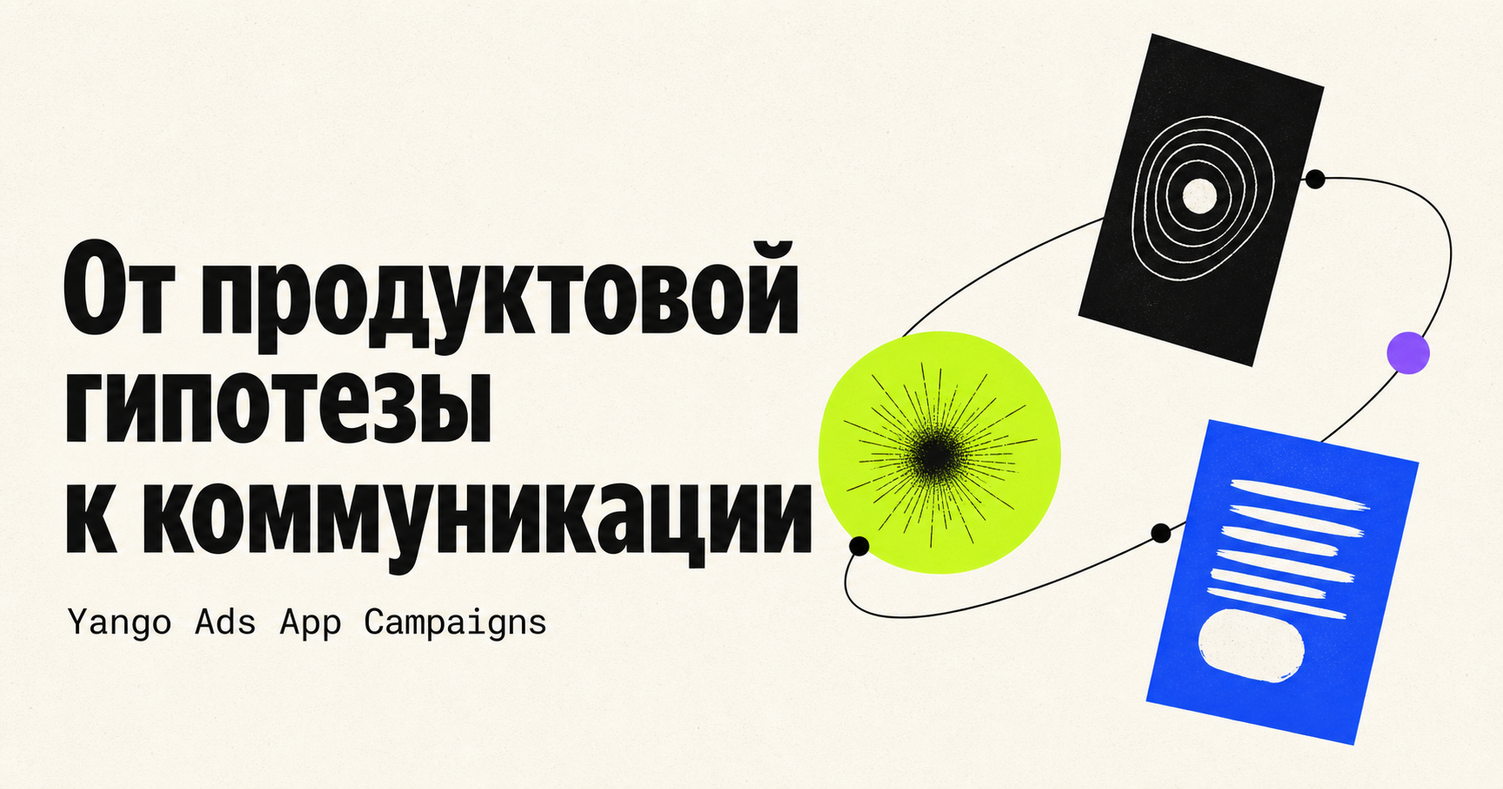
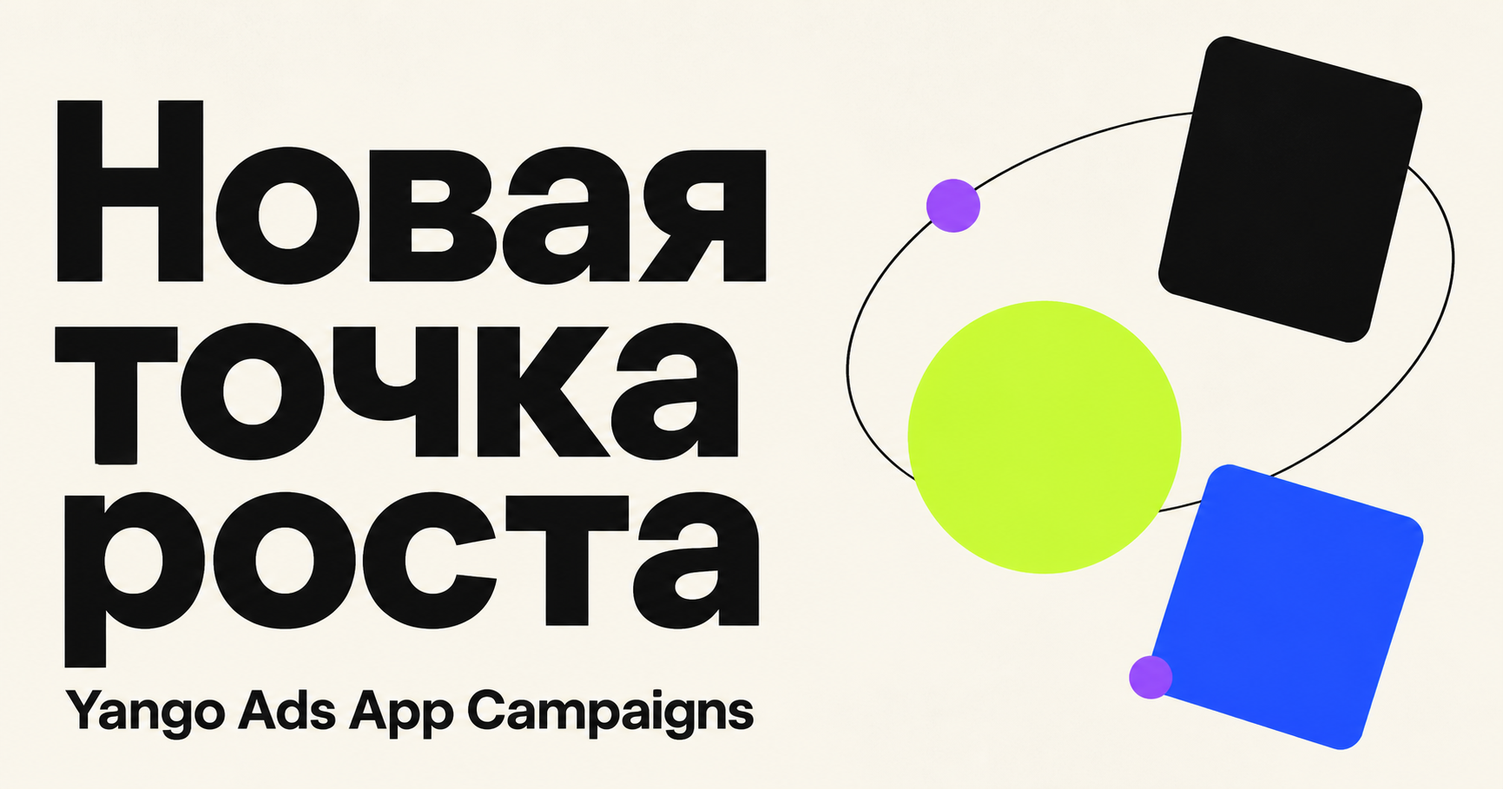
Publish revised Yango Ads case

diff --git a/index.html b/index.html
@@ -3,20 +3,20 @@
   <head>
     <meta charset="utf-8" />
     <meta name="viewport" content="width=device-width, initial-scale=1" />
-    <meta name="description" content="Как продуктовая гипотеза Yango Ads превратилась в сегментацию, позиционирование и LinkedIn-коммуникацию." />
+    <meta name="description" content="Как я нашла релевантный сегмент, сформулировала гипотезу и собрала LinkedIn-сообщения для Yango Ads App Campaigns." />
     <meta property="og:type" content="website" />
     <meta property="og:locale" content="ru_RU" />
-    <meta property="og:title" content="От продуктовой гипотезы к коммуникации" />
+    <meta property="og:title" content="Новая точка роста" />
     <meta property="og:description" content="Кейс о сегментации, позиционировании и LinkedIn-коммуникации для Yango Ads App Campaigns." />
     <meta property="og:url" content="https://julia-kolomenskaya.github.io/yango-app-campaigns-case-page/" />
     <meta property="og:image" content="https://julia-kolomenskaya.github.io/yango-app-campaigns-case-page/og.png" />
     <meta name="twitter:card" content="summary_large_image" />
-    <meta name="twitter:title" content="От продуктовой гипотезы к коммуникации" />
+    <meta name="twitter:title" content="Новая точка роста" />
     <meta name="twitter:description" content="Кейс о сегментации, позиционировании и LinkedIn-коммуникации для Yango Ads App Campaigns." />
     <meta name="twitter:image" content="https://julia-kolomenskaya.github.io/yango-app-campaigns-case-page/og.png" />
-    <title>Yango Ads App Campaigns — кейс о позиционировании и коммуникации</title>
+    <title>Новая точка роста — кейс Yango Ads App Campaigns</title>
     <link rel="icon" href="./favicon.svg" />
     <link rel="stylesheet" href="./app.css" />
   </head>
-  <body><link rel="preload" as="image" href="./assets/logos/yango-ads.png"/><link rel="preload" as="image" href="./assets/deck/14-ml.jpg"/><link rel="preload" as="image" href="./assets/deck/10-inventory.jpg"/><link rel="preload" as="image" href="./assets/deck/01-cover.jpg"/><link rel="preload" as="image" href="./assets/logos/yandex-direct-en.png"/><main><header class="topbar"><a class="brand brand-official" href="#top" aria-label="Yango Ads — наверх"><span class="yango-logo-stack" aria-label="Yango Ads"><span class="logo-crop logo-crop-yango"><img src="./assets/logos/yango-ads.png" alt=""/></span><span class="logo-crop logo-crop-ads"><img src="./assets/logos/yango-ads.png" alt=""/></span></span></a><nav aria-label="Навигация по кейсу"><a href="#task">Задача</a><a href="#approach">Подход</a><a href="#outreach">Сообщения</a><a href="#direct">Другие кейсы</a></nav><span class="case-note">КЕЙС · КОНТЕНТ И КОММУНИКАЦИЯ</span></header><section class="hero" id="top"><div class="hero-copy"><div class="eyebrow"><span></span> YANGO ADS APP CAMPAIGNS · КЕЙС</div><h1>От продуктовой гипотезы<br/>к коммуникации</h1><p class="hero-lead">Как я превратила гипотезу Yango Ads в сегментацию, позиционирование и LinkedIn-сообщения для компаний Европы и Америки.</p><div class="hero-skills" aria-label="Ключевые навыки"><span>Аудитория</span><span>Позиционирование</span><span>Продуктовые сообщения</span><span>CRM</span></div></div><div class="hero-visual" aria-label="Схема роста активной базы приложения"><div class="orbit orbit-one"></div><div class="orbit orbit-two"></div><div class="growth-card"><span class="growth-label">АКТИВНАЯ БАЗА</span><strong>+</strong><p>новый слой<br/>роста</p></div><div class="float-card float-a"><span>100M+</span> аудитория в месяц</div><div class="float-card float-b"><span>UA</span> + ретаргетинг</div><div class="float-card float-c"><span>ML</span> ценные пользователи</div></div><div class="hero-statement"><span>Что я сделала</span><p>Нашла релевантный сегмент и сигнал для контакта, сформулировала гипотезу роста и собрала под неё две последовательности LinkedIn-сообщений.</p></div></section><section class="section task-section" id="task"><div class="section-kicker">01 / БИЗНЕС-ЗАДАЧА</div><div class="task-grid"><h2>Найти новый подход<br/>к app-компаниям</h2><div class="task-body"><p class="big-copy">Заинтересовать компании Европы и Америки тестом Yango Ads App Campaigns, не конкурируя напрямую с их существующим набором рекламных каналов.</p><div class="challenge-row"><div><span>Сегмент</span><p>Найти компании, для которых предложение действительно релевантно.</p></div><div><span>Причина для контакта</span><p>Объяснить, почему я пишу именно этой компании.</p></div><div><span>Контентная задача</span><p>Перевести сложный рекламный продукт в короткое убедительное сообщение.</p></div></div></div></div></section><section class="section audience-section"><div class="audience-copy"><div class="section-kicker light">02 / АУДИТОРИЯ</div><h2>От целевой аудитории<br/>к причине для контакта</h2><p>Я не строила коммуникацию только на формальных характеристиках компаний. Для первого сообщения нужен был конкретный сигнал: уже существующая русскоязычная аудитория. Приоритет получили app-компании из Европы и Америки, а внутри — роли, отвечающие за рост и привлечение пользователей.</p><div class="role-list"><div><span>01</span>Performance Marketing</div><div><span>02</span>Growth</div><div><span>03</span>Head of Marketing</div><div><span>04</span>User Acquisition</div></div></div><div class="signal-card"><div class="signal-head"><span>КАРТОЧКА СИГНАЛА</span><b>ПРИОРИТЕТ</b></div><div class="company-app"><div class="app-icon">A</div><div><strong>Компания с мобильным приложением</strong><small>Европа / Америка</small></div></div><dl><div><dt>Продукт</dt><dd>Мобильное приложение <i>✓</i></dd></div><div><dt>Сигнал аудитории</dt><dd>Русскоязычная <i>✓</i></dd></div><div><dt>Роль</dt><dd>Рост / маркетинг <i>✓</i></dd></div><div><dt>Источник</dt><dd>Apollo <i>✓</i></dd></div></dl><div class="signal-score"><span>РЕЛЕВАНТНОСТЬ</span><strong>ВЫСОКАЯ</strong></div></div></section><section class="section offer-section" id="approach"><div class="section-kicker">03 / ГИПОТЕЗА И ПОЗИЦИОНИРОВАНИЕ</div><div class="offer-heading"><h2>Не заменяю текущие каналы.<br/><em>Добавляю новый слой роста.</em></h2><p>Вместо обещания заменить Meta и Google я предложила проверить дополнительный охват через аудиторию и инвентарь Yango Ads.</p></div><div class="offer-grid"><article class="offer-card"><span>01</span><h3>Инсайт об аудитории</h3><p>У бренда уже может быть спрос со стороны русскоязычных пользователей, но он не выделен в отдельную стратегию привлечения.</p></article><article class="offer-card"><span>02</span><h3>Ценность продукта</h3><p>Yango Ads даёт дополнительный охват через собственную экосистему, поиск и партнёрский инвентарь.</p></article><article class="offer-card"><span>03</span><h3>Основание доверять</h3><p>Локальная продуктовая экспертиза снижает барьер входа и превращает тест в понятный сценарий запуска.</p></article></div></section><section class="proof-section"><div class="proof-title"><span>ОТОБРАННЫЕ ДОКАЗАТЕЛЬСТВА</span><h2>Только аргументы,<br/>которые усиливают гипотезу</h2><p>Из большой продуктовой презентации я выбрала четыре факта, пригодных для первого контакта.</p></div><div class="proof-grid"><div class="proof-item"><strong>100M+</strong><span>пользователей</span><p>аудитория в месяц</p></div><div class="proof-item"><strong>70K+</strong><span>сайтов</span><p>партнёрская рекламная сеть</p></div><div class="proof-item"><strong>20K+</strong><span>приложений</span><p>дополнительный мобильный инвентарь</p></div><div class="proof-item"><strong>20+</strong><span>SSP</span><p>подключённые источники трафика</p></div></div><p class="source-note">Источник: продуктовая презентация Yango App Campaigns, Q3 2025.</p></section><section class="section funnel-section"><div class="section-kicker">04 / ОТ СИГНАЛА К СООБЩЕНИЮ</div><div class="funnel-heading"><h2>Как гипотеза стала<br/>структурой коммуникации</h2><p>Каждый элемент сообщения выводится из предыдущего: от выбранного сегмента до вопроса, который открывает диалог.</p></div><div class="funnel-list"><div class="funnel-row"><span>01</span><h3>Сегмент</h3><p>Компании с мобильными приложениями из Европы и Америки</p><b>→</b></div><div class="funnel-row"><span>02</span><h3>Сигнал</h3><p>Уже существующая русскоязычная аудитория</p><b>→</b></div><div class="funnel-row"><span>03</span><h3>Инсайт</h3><p>Потенциальный спрос, который компания пока отдельно не масштабирует</p><b>→</b></div><div class="funnel-row"><span>04</span><h3>Предложение</h3><p>Дополнительный охват за пределами привычных рекламных каналов</p><b>→</b></div><div class="funnel-row"><span>05</span><h3>Диалог</h3><p>Проверить, входит ли это направление в планы компании по росту</p><b>→</b></div></div></section><section class="outreach-section" id="outreach"><div class="outreach-copy"><div class="section-kicker light">05 / ПОСЛЕДОВАТЕЛЬНОСТЬ LINKEDIN</div><h2>Контекст → ценность<br/>→ диалог</h2><p>Я не пыталась продать продукт в первом сообщении. Сначала объясняла, почему пишу именно этой компании, затем показывала потенциальную возможность и только после этого проверяла наличие задачи.</p><div class="touchpoints"><div><span>1</span><p><b>Контекст</b>Почему я обращаюсь именно к этой компании</p></div><div><span>2</span><p><b>Ценность</b>Какая возможность для роста может быть релевантна</p></div><div><span>3</span><p><b>Диалог</b>Есть ли эта задача в планах компании</p></div></div></div><div class="linkedin-phone" aria-label="Макет переписки в LinkedIn"><div class="phone-top"><span>9:41</span><b>● ● ●</b></div><div class="li-head"><div class="avatar">YA</div><div><strong>Yango Ads</strong><span>International growth team</span></div><i>•••</i></div><div class="chat-date">TODAY</div><div class="message"><small>10:08 AM · MESSAGE 1</small><p>Hi Alex, thanks for connecting. I noticed your app is active in markets with a large Russian-speaking audience.</p><p>Would it be worth a quick conversation about your priorities in these regions?</p></div><div class="message"><small>10:32 AM · MESSAGE 2</small><p>You may already have demand from Russian-speaking users but not be actively scaling it yet.</p><p>Yango Ads adds reach through first-party data and inventory outside the usual channels.</p></div><div class="message message-last"><small>11:04 AM · MESSAGE 3</small><p>If CIS or another emerging market is in your growth plan, shall we explore whether there is a fit?</p></div><div class="reply-box">Write a message… <span>➤</span></div></div></section><section class="section scripts-section"><div class="section-kicker">06 / АДАПТАЦИЯ ПОД РАЗНЫЕ СИГНАЛЫ</div><div class="script-accordion"><details class="script-details script-lime"><summary><span class="script-label">ГЕОГРАФИЧЕСКИЙ СИГНАЛ</span><h3>Уже существующая русскоязычная аудитория</h3><p>Версия для компаний, у которых уже может быть спрос со стороны русскоязычных пользователей.</p><div class="script-meta"><span>3 сообщения · сигнал аудитории · дополнительный охват</span><b>Показать цепочку <i>+</i></b></div></summary><div class="sequence-gallery"><article class="sequence-shot"><div class="sequence-head"><span class="sequence-avatar">YA</span><p><b>Yango Ads</b><small>LinkedIn message · 1</small></p></div><div class="sequence-bubble">Hi [Name], thanks for connecting. I work at Yango Ads and noticed that [Company] is active in markets with large Russian-speaking audiences. Would it be worth a quick conversation about your priorities in these regions?</div></article><article class="sequence-shot"><div class="sequence-head"><span class="sequence-avatar">YA</span><p><b>Yango Ads</b><small>LinkedIn message · 2</small></p></div><div class="sequence-bubble">You may already have demand from Russian-speaking users but not be actively scaling it yet. Yango Ads adds reach through first-party data and inventory outside the usual channels.</div></article><article class="sequence-shot"><div class="sequence-head"><span class="sequence-avatar">YA</span><p><b>Yango Ads</b><small>LinkedIn message · 3</small></p></div><div class="sequence-bubble">[Company] already appears to have a presence in Russian-speaking markets. If Russia or CIS is in your current or future growth plan, is this something on your radar?</div></article></div></details><details class="script-details script-violet"><summary><span class="script-label">ОТРАСЛЕВОЙ СИГНАЛ</span><h3>Финтех- и трейдинговые приложения</h3><p>Версия для продуктов, которым нужны новые рынки привлечения и альтернативные источники трафика.</p><div class="script-meta"><span>введение + 3 сообщения · новые рынки · привлечение пользователей</span><b>Показать цепочку <i>+</i></b></div></summary><div class="sequence-gallery"><article class="sequence-shot"><div class="sequence-head"><span class="sequence-avatar">YA</span><p><b>Yango Ads</b><small>LinkedIn message · 1</small></p></div><div class="sequence-bubble">Hi [Name], I’m with Yango Ads. I focus on helping trading and fintech brands scale across high-intent markets such as CIS, LatAm and MEA.</div></article><article class="sequence-shot"><div class="sequence-head"><span class="sequence-avatar">YA</span><p><b>Yango Ads</b><small>LinkedIn message · 2</small></p></div><div class="sequence-bubble">I noticed you’re leading growth at [Company]. Is the team currently expanding into new regions or testing alternative acquisition channels?</div></article><article class="sequence-shot"><div class="sequence-head"><span class="sequence-avatar">YA</span><p><b>Yango Ads</b><small>LinkedIn message · 3</small></p></div><div class="sequence-bubble">Yango Ads provides access to active trading audiences across CIS, LatAm and Africa — markets where interest is growing and CPAs can remain competitive.</div></article><article class="sequence-shot"><div class="sequence-head"><span class="sequence-avatar">YA</span><p><b>Yango Ads</b><small>LinkedIn message · 4</small></p></div><div class="sequence-bubble">If you explore new geos or diversify beyond the usual acquisition channels, I’d be happy to share what has worked for FX and crypto partners.</div></article></div></details></div></section><section class="materials-section" id="materials"><div class="materials-copy"><div class="section-kicker light">07 / ИСХОДНЫЕ МАТЕРИАЛЫ</div><h2>От 32 слайдов<br/>к нескольким аргументам</h2><p>Я работала с продуктовой презентацией об аудитории, инвентаре, ML-моделях, привлечении и ретаргетинге, форматах и подключении. Моя задача — сократить сложный набор информации до аргументов, пригодных для первого контакта.</p><a class="material-link" href="./downloads/yango-app-campaigns-q3-2025.pdf" target="_blank">Посмотреть исходную презентацию <span>↗</span></a><small>Yango App Campaigns · Q3 2025</small></div><div class="deck-stack" aria-label="Превью исходной продуктовой презентации"><img class="deck deck-back" src="./assets/deck/14-ml.jpg" alt="Слайд о ML-модели Yango App Campaigns"/><img class="deck deck-mid" src="./assets/deck/10-inventory.jpg" alt="Слайд об источниках инвентаря"/><img class="deck deck-front" src="./assets/deck/01-cover.jpg" alt="Обложка Yango App Campaigns"/></div></section><section class="section outcome-section"><div class="section-kicker">08 / МОЯ ЗОНА ОТВЕТСТВЕННОСТИ</div><div class="outcome-grid"><div class="outcome-head"><h2>Что именно<br/>я сделала</h2><p><b>Этап кейса:</b> система сообщений и логика коммуникации подготовлены для первого теста. Данных пока недостаточно для корректных выводов об эффективности.</p></div><div class="outcome-list"><div><span>01</span><p><b>Аудитория и сегментация</b>Определила сегмент, роли и критерии релевантности.</p></div><div><span>02</span><p><b>Позиционирование</b>Сформулировала гипотезу роста и иерархию ключевых сообщений.</p></div><div><span>03</span><p><b>Контент</b>Собрала последовательности LinkedIn-сообщений для разных сигналов.</p></div><div><span>04</span><p><b>Перевод продукта в коммуникацию</b>Сократила продуктовую презентацию до аргументов для первого контакта.</p></div><div><span>05</span><p><b>Дизайн теста</b>Определила метрики первого запуска и логику оценки результата.</p></div></div></div></section><section class="measurement-section"><span>09 / КАК ИЗМЕРЯТЬ РЕЗУЛЬТАТ</span><h2>Метрики первого теста</h2><p>Фокус — не на количестве отправок, а на качестве реакции и движении по воронке.</p><div class="next-metrics"><p>Доля ответов</p><p>Положительные ответы</p><p>Встречи</p><p>Квалифицированные возможности</p></div></section><section class="direct-section" id="direct"><div class="direct-brand"><img src="./assets/logos/yandex-direct-en.png" alt="Yandex Direct"/></div><div class="direct-intro"><div class="section-kicker">10 / ДОПОЛНИТЕЛЬНЫЕ ПРИМЕРЫ</div><h2>Другие примеры CRM-коммуникаций</h2><p>Три задачи для Яндекс Директа: продуктовый запуск, активационное предложение и обязательная сервисная коммуникация.</p></div><div class="email-cases"><article class="email-case"><div class="email-preview email-preview-yellow"><div class="email-browser"><i></i><i></i><i></i><span>Превью письма · 700 px</span></div><div class="email-viewport"><iframe src="./emails/direct-expanded-geo-targeting.html" title="Превью письма о расширенном геотаргетинге в Яндекс Директе" sandbox="" loading="lazy"></iframe></div></div><div class="email-copy"><span>ПРОДУКТОВОЕ ОБНОВЛЕНИЕ · CRMINTMRKT-54</span><h3>Расширение геотаргетинга</h3><p>Объяснила клиентам из Европы, какие новые рынки можно добавить и как включить возможность в существующих кампаниях.</p><div class="email-purpose"><b>Контентная задача</b><p>Объяснить изменение продукта без перегруза деталями и сразу показать сценарий применения.</p></div><a href="./emails/direct-expanded-geo-targeting.html" target="_blank">Открыть письмо целиком ↗</a></div></article><article class="email-case email-case-reverse"><div class="email-preview email-preview-blue"><div class="email-browser"><i></i><i></i><i></i><span>Превью письма · 700 px</span></div><div class="email-viewport"><iframe src="./emails/direct-video-creatives.html" title="Превью письма о бесплатных видеокреативах в Яндекс Директе" sandbox="" loading="lazy"></iframe></div></div><div class="email-copy"><span>АКТИВАЦИОННОЕ ПРЕДЛОЖЕНИЕ · CRMINTMRKT-60</span><h3>Бесплатные видеокреативы</h3><p>Упаковала предложение для клиентов с расходами от $4,000 в месяц: производство видео под бренд и задачи кампании.</p><div class="email-purpose"><b>Контентная задача</b><p>Превратить бесплатное производство креативов из бонуса в понятный сценарий роста эффективности.</p></div><a href="./emails/direct-video-creatives.html" target="_blank">Открыть письмо целиком ↗</a></div></article><article class="email-case"><div class="email-preview email-preview-violet"><div class="email-browser"><i></i><i></i><i></i><span>Превью письма · 700 px</span></div><div class="email-viewport"><iframe src="./emails/direct-kazakhstan-vat-16.html" title="Превью письма об изменении ставки НДС в Казахстане" sandbox="" loading="lazy"></iframe></div></div><div class="email-copy"><span>СЕРВИСНОЕ ОБНОВЛЕНИЕ · CRMINTMRKT-88</span><h3>НДС 16% в Казахстане</h3><p>Перевела регуляторное изменение в практическую инструкцию: новая ставка, пересчёт остатка и влияние на кампании.</p><div class="email-purpose"><b>Контентная задача</b><p>Показать, что изменилось, что произойдёт с балансом и что нужно сделать, чтобы реклама не остановилась.</p></div><a href="./emails/direct-kazakhstan-vat-16.html" target="_blank">Открыть письмо целиком ↗</a></div></article></div></section><footer><a class="brand brand-official" href="#top" aria-label="Yango Ads — наверх"><span class="yango-logo-stack footer-logo" aria-label="Yango Ads"><span class="logo-crop logo-crop-yango"><img src="./assets/logos/yango-ads.png" alt=""/></span><span class="logo-crop logo-crop-ads"><img src="./assets/logos/yango-ads.png" alt=""/></span></span></a><p>Yango Ads App Campaigns · кейс о контенте и коммуникации</p><div><a href="https://yango-ads.com/appcampaigns" target="_blank">О продукте ↗</a><a href="#top">Наверх ↑</a></div></footer></main></body>
+  <body><link rel="preload" as="image" href="./assets/logos/yango-ads.png"/><link rel="preload" as="image" href="./assets/deck/14-ml.jpg"/><link rel="preload" as="image" href="./assets/deck/10-inventory.jpg"/><link rel="preload" as="image" href="./assets/deck/01-cover.jpg"/><link rel="preload" as="image" href="./assets/logos/yandex-direct-en.png"/><main><header class="topbar"><a class="brand brand-official" href="#top" aria-label="Yango Ads — наверх"><span class="yango-logo-stack" aria-label="Yango Ads"><span class="logo-crop logo-crop-yango"><img src="./assets/logos/yango-ads.png" alt=""/></span><span class="logo-crop logo-crop-ads"><img src="./assets/logos/yango-ads.png" alt=""/></span></span></a><nav aria-label="Навигация по кейсу"><a href="#task">Задача</a><a href="#approach">Подход</a><a href="#outreach">Сообщения</a><a href="#direct">Другие кейсы</a></nav><span class="case-note">КЕЙС · КОНТЕНТ И КОММУНИКАЦИЯ</span></header><section class="hero" id="top"><div class="hero-copy"><div class="eyebrow"><span></span> YANGO ADS APP CAMPAIGNS · КЕЙС</div><h1>Новая точка роста</h1><p class="hero-lead">Как я определила сегмент для Yango Ads App Campaigns, сформулировала позиционирование и подготовила LinkedIn-сообщения для компаний Европы и Америки.</p><div class="hero-skills" aria-label="Ключевые навыки"><span>Аудитория</span><span>Позиционирование</span><span>Продуктовые сообщения</span><span>CRM</span></div></div><div class="hero-visual" aria-label="Схема роста активной базы приложения"><div class="orbit orbit-one"></div><div class="orbit orbit-two"></div><div class="growth-card"><span class="growth-label">АКТИВНАЯ БАЗА</span><strong>+</strong><p>новая точка<br/>роста</p></div><div class="float-card float-a"><span>100M+</span> аудитория в месяц</div><div class="float-card float-b"><span>UA</span> + ретаргетинг</div><div class="float-card float-c"><span>ML</span> ценные пользователи</div></div><div class="hero-statement"><span>Что я сделала</span><p><strong>Нашла релевантный сегмент для контакта, сформулировала гипотезу и собрала под неё скрипты LinkedIn-сообщений.</strong></p></div></section><section class="section task-section" id="task"><div class="section-kicker">01 / БИЗНЕС-ЗАДАЧА</div><div class="task-grid"><h2>Найти новый подход<br/>к компаниям с приложениями</h2><div class="task-body"><p class="big-copy">Заинтересовать компании Европы и Америки тестом Yango Ads App Campaigns, не конкурируя напрямую с их существующим набором рекламных каналов.</p><div class="challenge-row"><div><span>Сегмент</span><p>Найти компании, для которых предложение действительно релевантно.</p></div><div><span>Причина для контакта</span><p>Объяснить, почему я пишу именно этой компании.</p></div><div><span>Контентная задача</span><p>Перевести сложный рекламный продукт в короткое убедительное сообщение.</p></div></div></div></div></section><section class="section audience-section"><div class="audience-copy"><div class="section-kicker light">02 / АУДИТОРИЯ</div><h2>От целевой аудитории<br/>к причине для контакта</h2><p>Я не строила коммуникацию только на формальных характеристиках продукта. Для первого сообщения нужен был конкретный сигнал: уже существующая русскоязычная аудитория. Приоритет получили роли, отвечающие за рост и привлечение пользователей.</p><div class="role-list"><div><span>01</span>Performance Marketing</div><div><span>02</span>Growth</div><div><span>03</span>Head of Marketing</div><div><span>04</span>User Acquisition</div></div></div><div class="signal-card"><div class="signal-head"><span>КАРТОЧКА СИГНАЛА</span><b>ПРИОРИТЕТ</b></div><div class="company-app"><div class="app-icon">A</div><div><strong>Компания с мобильным приложением</strong><small>Европа / Америка</small></div></div><dl><div><dt>Продукт</dt><dd>Мобильное приложение <i>✓</i></dd></div><div><dt>Аудитория</dt><dd>Есть русскоязычные пользователи <i>✓</i></dd></div><div><dt>Роль</dt><dd>Рост / маркетинг <i>✓</i></dd></div></dl><div class="signal-score"><span>РЕЛЕВАНТНОСТЬ</span><strong>ВЫСОКАЯ</strong></div></div></section><section class="section offer-section" id="approach"><div class="section-kicker">03 / ГИПОТЕЗА И ПОЗИЦИОНИРОВАНИЕ</div><div class="offer-heading"><h2>Не заменяем текущие каналы.<br/><em>Подсвечиваем спрос, который компания пока не масштабирует.</em></h2><p>Вместо обещания заменить Meta и Google я предложила проверить дополнительный охват через аудиторию и инвентарь Yango Ads.</p></div><div class="offer-grid"><article class="offer-card"><span>01</span><h3>Инсайт об аудитории</h3><p>У компании уже может быть спрос со стороны русскоязычных пользователей, но он не учитывается в стратегии привлечения.</p></article><article class="offer-card"><span>02</span><h3>Ценность продукта</h3><p>Yango Ads даёт дополнительный охват через собственную экосистему, поиск и партнёрский инвентарь.</p></article><article class="offer-card"><span>03</span><h3>Почему этому можно доверять</h3><p>Локальная продуктовая экспертиза помогает быстрее запустить и оценить тест.</p></article></div></section><section class="outreach-section" id="outreach"><div class="outreach-copy"><div class="section-kicker light">04 / ПОСЛЕДОВАТЕЛЬНОСТЬ LINKEDIN</div><h2>От контекста<br/>к ценности и диалогу</h2><p>Я не пыталась продать продукт в первом сообщении. Сначала объясняла, почему пишу именно этой компании, затем показывала потенциальную возможность и только после этого проверяла наличие задачи.</p><div class="touchpoints"><div><span>1</span><p><b>Контекст</b>Почему я обращаюсь именно к этой компании</p></div><div><span>2</span><p><b>Ценность</b>Какая возможность для роста может быть релевантна</p></div><div><span>3</span><p><b>Диалог</b>Есть ли эта задача в планах компании</p></div></div></div><div class="linkedin-phone" aria-label="Макет переписки в LinkedIn"><div class="phone-top"><span>9:41</span><b>● ● ●</b></div><div class="li-head"><div class="avatar">YA</div><div><strong>Yango Ads</strong><span>International growth team</span></div><i>•••</i></div><div class="chat-date">TODAY</div><div class="message"><small>MESSAGE 1</small><p>Hi [Name], thanks for connecting. I work at Yango Ads and noticed that [Company] is active in markets with large Russian-speaking audiences. Would it be worth a quick conversation about your priorities in these regions?</p></div><div class="message"><small>MESSAGE 2</small><p>You may already have demand from Russian-speaking users but not be actively scaling it yet. Yango Ads adds reach through first-party data and inventory outside the usual channels.</p></div><div class="message message-last"><small>MESSAGE 3</small><p>[Company] already appears to have a presence in Russian-speaking markets. If Russia or CIS is in your current or future growth plan, is this something on your radar?</p></div><div class="reply-box">Write a message… <span>➤</span></div></div></section><section class="section scripts-section"><div class="section-kicker">05 / АДАПТАЦИЯ ПОД РАЗНЫЕ СИГНАЛЫ</div><div class="script-accordion"><article class="script-details script-lime"><div class="script-summary"><span class="script-label">ГЕОГРАФИЧЕСКИЙ СИГНАЛ</span><h3>Уже существующая русскоязычная аудитория</h3><p>Версия для компаний, у которых уже может быть спрос со стороны русскоязычных пользователей.</p><div class="script-meta"><span>3 сообщения · сигнал аудитории · дополнительный охват</span></div></div><div class="sequence-gallery"><article class="sequence-shot"><div class="sequence-head"><span class="sequence-avatar">YA</span><p><b>Yango Ads</b><small>LinkedIn message · 1</small></p></div><div class="sequence-bubble">Hi [Name], thanks for connecting. I work at Yango Ads and noticed that [Company] is active in markets with large Russian-speaking audiences. Would it be worth a quick conversation about your priorities in these regions?</div></article><article class="sequence-shot"><div class="sequence-head"><span class="sequence-avatar">YA</span><p><b>Yango Ads</b><small>LinkedIn message · 2</small></p></div><div class="sequence-bubble">You may already have demand from Russian-speaking users but not be actively scaling it yet. Yango Ads adds reach through first-party data and inventory outside the usual channels.</div></article><article class="sequence-shot"><div class="sequence-head"><span class="sequence-avatar">YA</span><p><b>Yango Ads</b><small>LinkedIn message · 3</small></p></div><div class="sequence-bubble">[Company] already appears to have a presence in Russian-speaking markets. If Russia or CIS is in your current or future growth plan, is this something on your radar?</div></article></div></article><article class="script-details script-violet"><div class="script-summary"><span class="script-label">ОТРАСЛЕВОЙ СИГНАЛ</span><h3>Финтех- и трейдинговые приложения</h3><p>Версия для продуктов, которым нужны новые рынки привлечения и альтернативные источники трафика.</p><div class="script-meta"><span>введение + 3 сообщения · новые рынки · привлечение пользователей</span></div></div><div class="sequence-gallery"><article class="sequence-shot"><div class="sequence-head"><span class="sequence-avatar">YA</span><p><b>Yango Ads</b><small>LinkedIn message · 1</small></p></div><div class="sequence-bubble">Hi [Name], I’m with Yango Ads. I focus on helping trading and fintech brands scale across high-intent markets such as CIS, LatAm and MEA.</div></article><article class="sequence-shot"><div class="sequence-head"><span class="sequence-avatar">YA</span><p><b>Yango Ads</b><small>LinkedIn message · 2</small></p></div><div class="sequence-bubble">I noticed you’re leading growth at [Company]. Is the team currently expanding into new regions or testing alternative acquisition channels?</div></article><article class="sequence-shot"><div class="sequence-head"><span class="sequence-avatar">YA</span><p><b>Yango Ads</b><small>LinkedIn message · 3</small></p></div><div class="sequence-bubble">Yango Ads provides access to active trading audiences across CIS, LatAm and Africa — markets where interest is growing and CPAs can remain competitive.</div></article><article class="sequence-shot"><div class="sequence-head"><span class="sequence-avatar">YA</span><p><b>Yango Ads</b><small>LinkedIn message · 4</small></p></div><div class="sequence-bubble">If you explore new geos or diversify beyond the usual acquisition channels, I’d be happy to share what has worked for FX and crypto partners.</div></article></div></article></div></section><section class="materials-section" id="materials"><div class="materials-copy"><div class="section-kicker light">06 / ИСХОДНЫЕ МАТЕРИАЛЫ</div><h2>От 32 слайдов<br/>к нескольким аргументам</h2><p>Я работала с продуктовой презентацией об аудитории, инвентаре, ML-моделях, привлечении и ретаргетинге, форматах и подключении. Моя задача — отобрать из этого материала аргументы, которые заинтересуют лида и помогут начать предметный разговор.</p><a class="material-link" href="./downloads/yango-app-campaigns-q3-2025.pdf" target="_blank">Посмотреть исходную презентацию <span>↗</span></a><small>Yango App Campaigns · Q3 2025</small></div><div class="deck-stack" aria-label="Превью исходной продуктовой презентации"><img class="deck deck-back" src="./assets/deck/14-ml.jpg" alt="Слайд о ML-модели Yango App Campaigns"/><img class="deck deck-mid" src="./assets/deck/10-inventory.jpg" alt="Слайд об источниках инвентаря"/><img class="deck deck-front" src="./assets/deck/01-cover.jpg" alt="Обложка Yango App Campaigns"/></div></section><section class="section outcome-section"><div class="section-kicker">07 / МОЯ ЗОНА ОТВЕТСТВЕННОСТИ</div><div class="outcome-grid"><div class="outcome-head"><h2>Что именно<br/>я сделала</h2></div><div class="outcome-list"><div><span>01</span><p><b>Аудитория и сегментация</b>Определила сегмент, роли и критерии релевантности.</p></div><div><span>02</span><p><b>Позиционирование</b>Сформулировала гипотезу роста и иерархию ключевых сообщений.</p></div><div><span>03</span><p><b>Контент</b>Собрала последовательности LinkedIn-сообщений для разных сигналов.</p></div><div><span>04</span><p><b>Продуктовые аргументы</b>Отобрала из презентации аргументы для первого контакта.</p></div><div><span>05</span><p><b>Дизайн теста</b>Определила метрики первого запуска и логику оценки результата.</p></div></div></div></section><section class="direct-section" id="direct"><div class="direct-brand"><img src="./assets/logos/yandex-direct-en.png" alt="Yandex Direct"/></div><div class="direct-intro"><div class="section-kicker">08 / ДОПОЛНИТЕЛЬНЫЕ ПРИМЕРЫ</div><h2>Другие примеры CRM-коммуникаций</h2><p>Три задачи для Яндекс Директа: продуктовый запуск, активационное предложение и обязательная сервисная коммуникация.</p></div><div class="email-cases"><article class="email-case"><div class="email-preview email-preview-yellow"><div class="email-browser"><i></i><i></i><i></i><span>Превью письма · 700 px</span></div><div class="email-viewport"><iframe src="./emails/direct-expanded-geo-targeting.html" title="Превью письма о расширенном геотаргетинге в Яндекс Директе" sandbox="" loading="lazy"></iframe></div></div><div class="email-copy"><span>ПРОДУКТОВОЕ ОБНОВЛЕНИЕ · CRMINTMRKT-54</span><h3>Расширение геотаргетинга</h3><p>Объяснила клиентам из Европы, какие новые рынки можно добавить и как включить возможность в существующих кампаниях.</p><div class="email-purpose"><b>Контентная задача</b><p>Объяснить изменение продукта без перегруза деталями и сразу показать сценарий применения.</p></div><a href="./emails/direct-expanded-geo-targeting.html" target="_blank">Открыть письмо целиком ↗</a></div></article><article class="email-case email-case-reverse"><div class="email-preview email-preview-blue"><div class="email-browser"><i></i><i></i><i></i><span>Превью письма · 700 px</span></div><div class="email-viewport"><iframe src="./emails/direct-video-creatives.html" title="Превью письма о бесплатных видеокреативах в Яндекс Директе" sandbox="" loading="lazy"></iframe></div></div><div class="email-copy"><span>АКТИВАЦИОННОЕ ПРЕДЛОЖЕНИЕ · CRMINTMRKT-60</span><h3>Бесплатные видеокреативы</h3><p>Упаковала предложение для клиентов с расходами от $4,000 в месяц: производство видео под бренд и задачи кампании.</p><div class="email-purpose"><b>Контентная задача</b><p>Превратить бесплатное производство креативов из бонуса в понятный сценарий роста эффективности.</p></div><a href="./emails/direct-video-creatives.html" target="_blank">Открыть письмо целиком ↗</a></div></article><article class="email-case"><div class="email-preview email-preview-violet"><div class="email-browser"><i></i><i></i><i></i><span>Превью письма · 700 px</span></div><div class="email-viewport"><iframe src="./emails/direct-kazakhstan-vat-16.html" title="Превью письма об изменении ставки НДС в Казахстане" sandbox="" loading="lazy"></iframe></div></div><div class="email-copy"><span>СЕРВИСНОЕ ОБНОВЛЕНИЕ · CRMINTMRKT-88</span><h3>НДС 16% в Казахстане</h3><p>Использовали повышение НДС как инфоповод, чтобы простимулировать использование рекламных бюджетов до вступления новой ставки в силу. В том же письме объяснили, как изменение повлияет на баланс и кампании.</p><div class="email-purpose"><b>Контентная задача</b><p>Показать, что изменилось, что произойдёт с балансом и что нужно сделать, чтобы реклама не остановилась.</p></div><a href="./emails/direct-kazakhstan-vat-16.html" target="_blank">Открыть письмо целиком ↗</a></div></article></div></section><footer><a class="brand brand-official" href="#top" aria-label="Yango Ads — наверх"><span class="yango-logo-stack footer-logo" aria-label="Yango Ads"><span class="logo-crop logo-crop-yango"><img src="./assets/logos/yango-ads.png" alt=""/></span><span class="logo-crop logo-crop-ads"><img src="./assets/logos/yango-ads.png" alt=""/></span></span></a><p>Yango Ads App Campaigns · кейс о контенте и коммуникации</p><div><a href="https://yango-ads.com/appcampaigns" target="_blank">О продукте ↗</a><a href="#top">Наверх ↑</a></div></footer></main></body>
 </html>

diff --git a/app.css b/app.css
@@ -30,6 +30,9 @@
 @media(max-width:640px){.topbar{height:78px;padding:0 20px}.yango-logo-stack{transform:scale(.76);transform-origin:left center}.hero{padding-top:60px}.hero h1{font-size:47px;letter-spacing:-.06em}.hero-statement{grid-template-columns:1fr;gap:12px;padding:22px;border-radius:20px}.hero-statement p{font-size:17px}.offer-card h3{min-height:0;margin-top:55px}.script-details{border-radius:22px}.script-details summary{padding:26px 22px}.script-details h3{font-size:38px;margin-top:52px}.script-meta{align-items:flex-end}.script-meta>span{max-width:55%}.sequence-gallery,.script-details:nth-child(2) .sequence-gallery{grid-template-columns:1fr;padding:0 22px 28px}.sequence-shot{min-height:230px}.materials-section{grid-template-columns:1fr}.measurement-section{padding:82px 20px 40px}.direct-brand{margin-bottom:52px;padding-bottom:30px}.direct-brand img{width:215px}.direct-intro h2{font-size:47px}.footer-logo{transform:none}footer .yango-logo-stack{width:108px}}
 
 /* Recommendation-led editorial pass */
+.yango-logo-stack{width:128px;height:79px;gap:3px;overflow:visible}.logo-crop{height:38px}.logo-crop img{width:212px}.logo-crop-yango{width:129px}.logo-crop-ads{width:82px}.logo-crop-ads img{left:-130px}
+.script-summary{padding:32px 38px}.script-summary>p{font-size:16px;line-height:1.5;max-width:720px}.linkedin-phone{max-width:540px}.message p{font-size:11px;line-height:1.5}
+@media(max-width:640px){.script-summary{padding:26px 22px}.yango-logo-stack,footer .yango-logo-stack{width:128px}.footer-logo{transform:scale(.76);transform-origin:left center}}
 .offer-grid{grid-template-columns:repeat(3,1fr)}
 .proof-section{padding-top:90px}.proof-title>p{max-width:480px;font-size:16px;line-height:1.5;margin:30px 0 0}
 .materials-section{grid-template-columns:1fr 1fr;padding-top:92px;padding-bottom:100px;gap:7vw}.deck-stack{min-height:390px}
